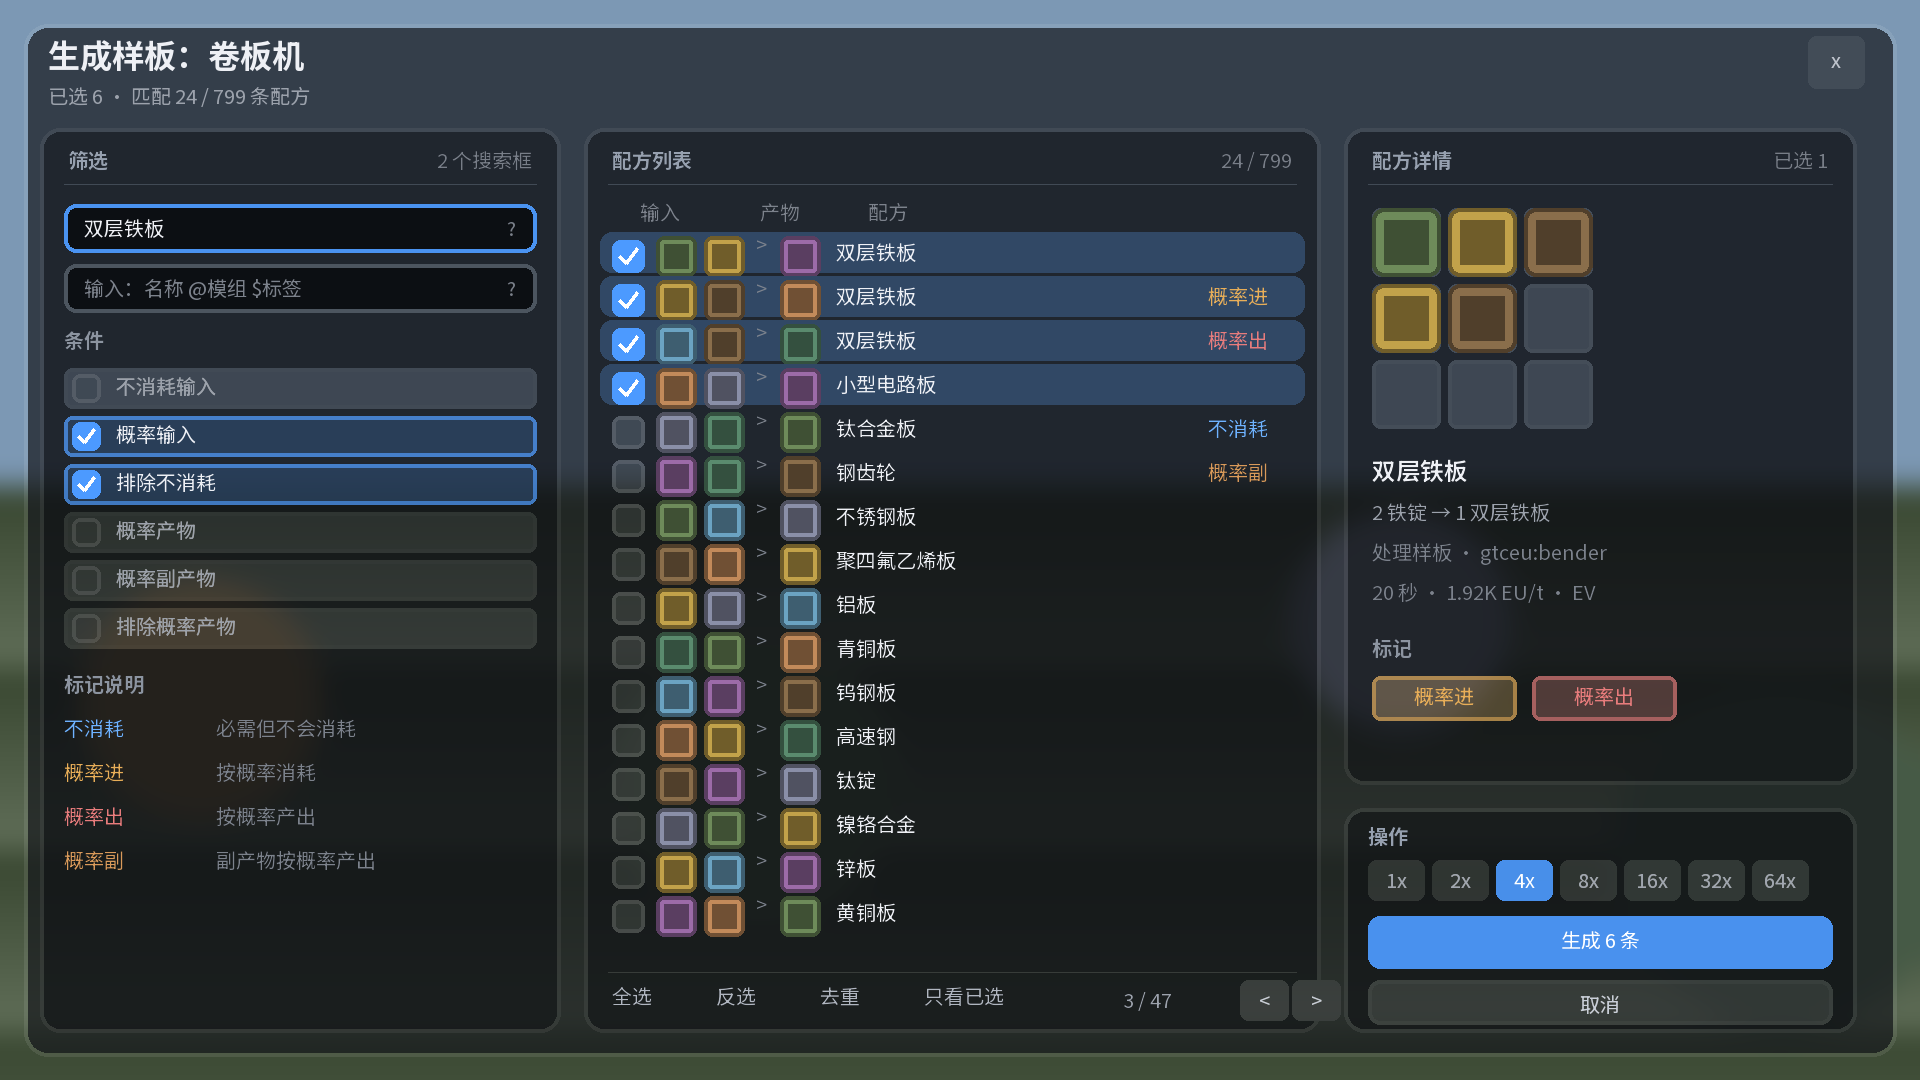
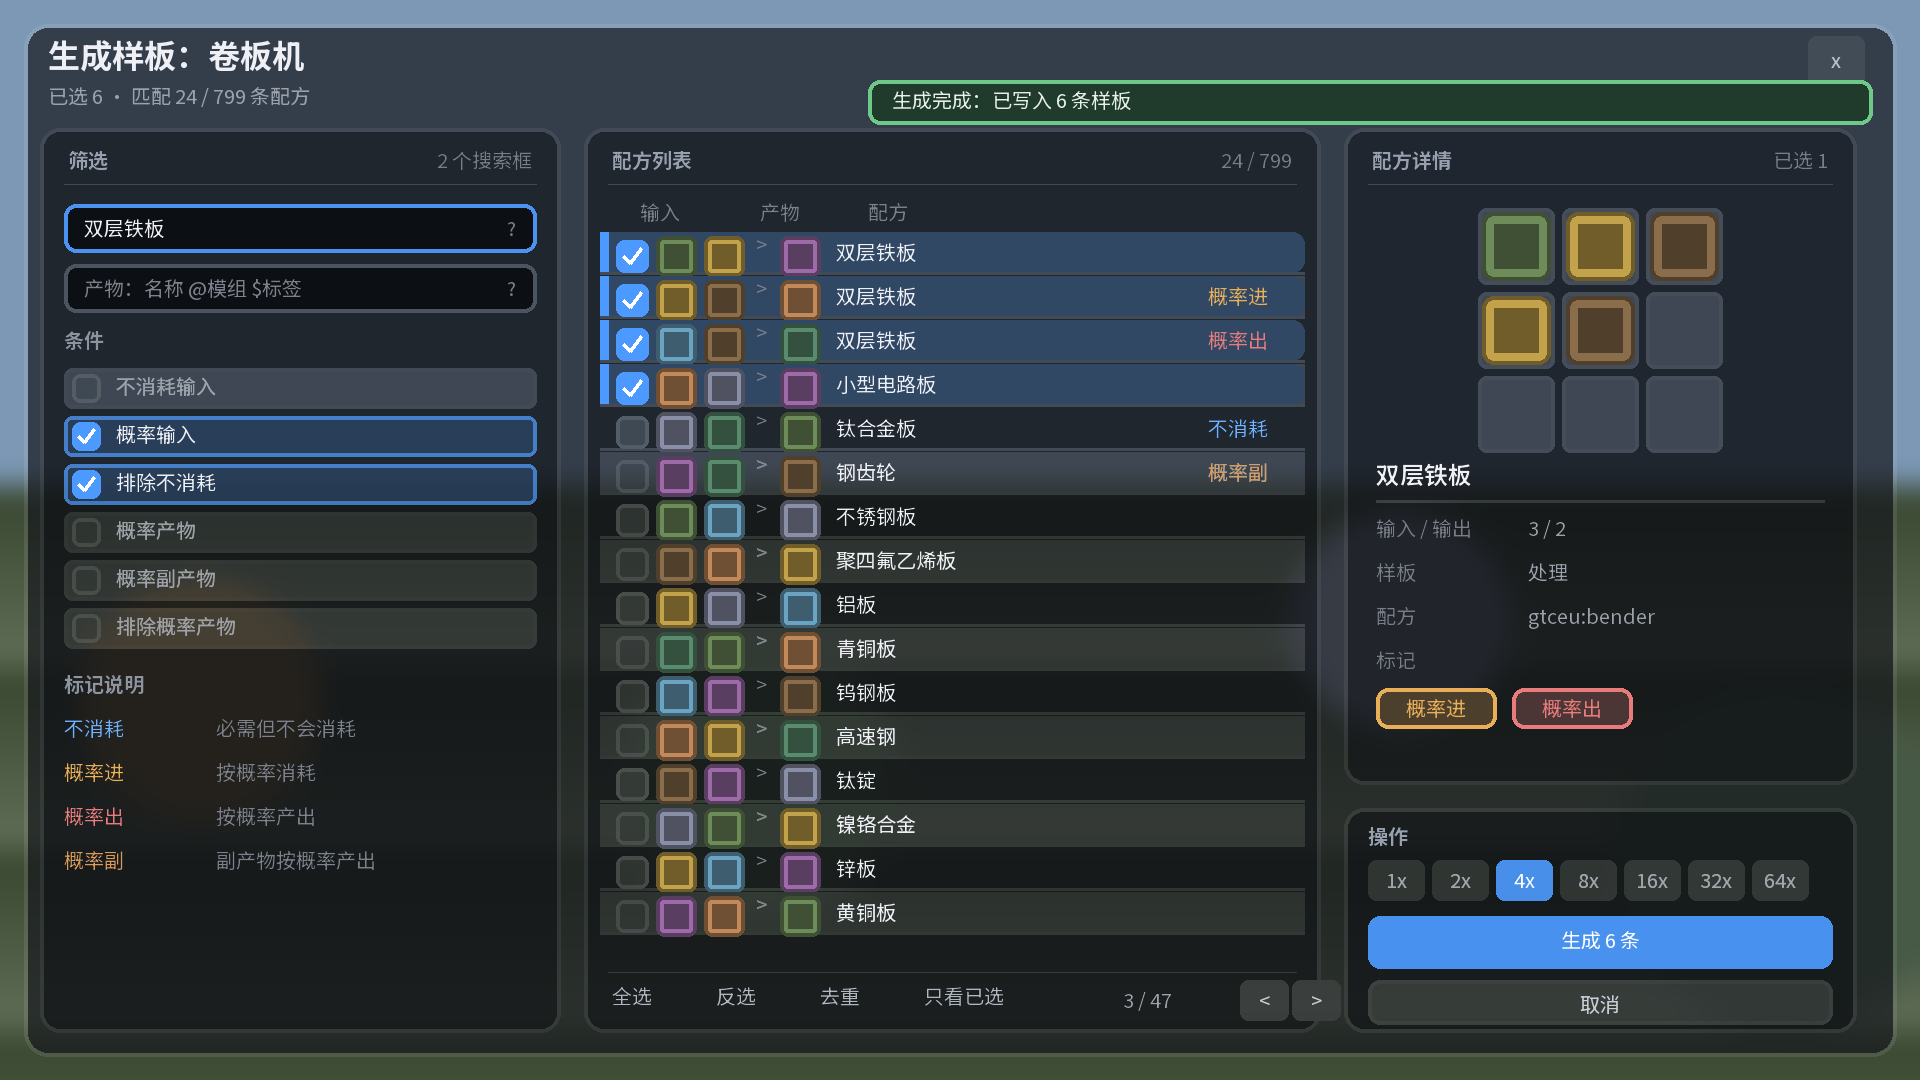
chore(release): 1.8.2
Ships the header fix for the generation notice.

diff --git a/src/main/java/io/github/sexileman/eae2pattern/client/PreviewScreen.java b/src/main/java/io/github/sexileman/eae2pattern/client/PreviewScreen.java
@@ -458,9 +458,13 @@ public final class PreviewScreen extends Screen implements GenerationListener {
             return;
         }
         String text = this.notice.getString();
-        int width = Math.min(this.panelWidth - 2 * PAD - 24, this.font.width(text) + 16);
-        int x = this.panelLeft + (this.panelWidth - width) / 2;
-        int y = this.panelTop + HEADER_H - 11;
+        int width = Math.min(this.panelWidth - 260, this.font.width(text) + 16);
+        if (width < 60) {
+            width = 60;
+        }
+        // Right aligned inside the header so it can never overlap the title or the subtitle.
+        int x = this.panelLeft + this.panelWidth - PAD - 16 - width;
+        int y = this.panelTop + 9;
         int border = this.noticeFailure ? BAD : OK;
         UiKit.roundedRect(graphics, x, y, width, 12, 3, this.noticeFailure ? 0xE03A2024 : 0xE01F3A28);
         UiKit.roundedFrame(graphics, x, y, width, 12, 3, 0x00000000, border);
@@ -471,7 +475,9 @@ public final class PreviewScreen extends Screen implements GenerationListener {
         graphics.drawString(this.font, this.title, this.panelLeft + PAD + 3, this.panelTop + 8, TEXT, false);
         String subtitle = Component.translatable("eae2_pattern.preview.subtitle",
                 this.plan.selectedCount(), this.visible.size(), this.plan.entries().size()).getString();
-        graphics.drawString(this.font, subtitle, this.panelLeft + PAD + 3, this.panelTop + 19, TEXT_DIM, false);
+        graphics.drawString(this.font,
+                UiKit.fit(this.font, subtitle, Math.max(60, this.panelWidth - 250)),
+                this.panelLeft + PAD + 3, this.panelTop + 19, TEXT_DIM, false);
 
         boolean hovered = over(mouseX, mouseY, this.closeButton);
         UiKit.roundedRect(graphics, this.closeButton.x(), this.closeButton.y(),
